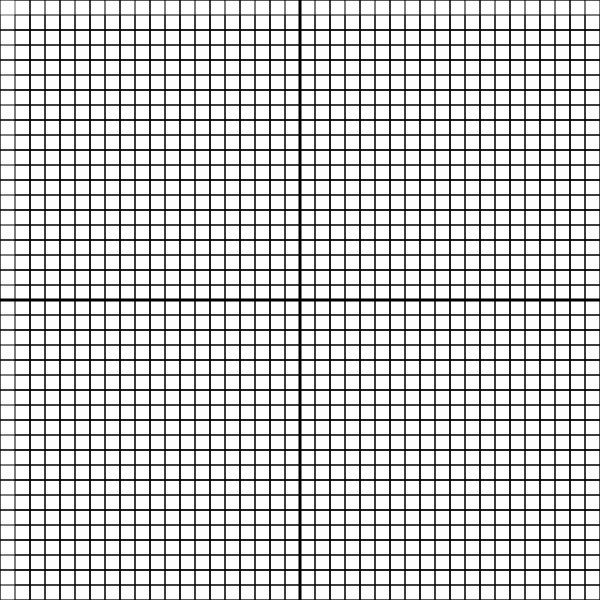
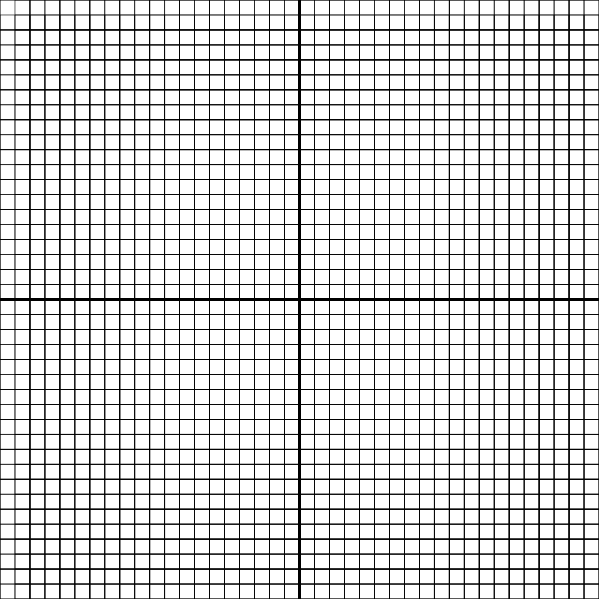
Linted the files after the previous commit and added screen-independent sizing for the window

Changed region(s): [[0.0, 0.0, 1.0, 1.0]]

diff --git a/tests/test_button.py b/tests/test_button.py
@@ -27,6 +27,7 @@ def test_draw(qtbot):
                                                              'or button '
                                                              'not working')
 
+
 def test_clear(qtbot):
     window = Graph(ctx, surface, line_color)
     window.show()
@@ -39,8 +40,10 @@ def test_clear(qtbot):
     qtbot.waitForWindowShown(window)
 
     qtbot.mouseClick(window.buttonBox.buttons()[0], Qt.LeftButton)
+    p1Black = window.graph1.pixelColor(window.p1) == Qt.black
+    p2Black = window.graph1.pixelColor(window.p2) == Qt.black
 
-    if window.graph1.pixelColor(window.p1) == Qt.black and window.graph1.pixelColor(window.p2) == Qt.black:
+    if p1Black and p2Black:
         qtbot.mouseClick(window.buttonBox.buttons()[1], Qt.LeftButton)
 
         assert window.x_coord1.text() == '0', "Reset button is not working"
@@ -48,12 +51,16 @@ def test_clear(qtbot):
         assert window.x_coord2.text() == '0', "Reset button is not working"
         assert window.y_coord2.text() == '0', "Reset button is not working"
     else:
-        assert window.graph1.pixelColor(window.p1) == Qt.black, ('Line not drawn'
-                                                                 'or button '
-                                                                 'not working')
-        assert window.graph1.pixelColor(window.p2) == Qt.black, ('Line not drawn'
-                                                                 'or button '
-                                                                 'not working')
+        assert window.graph1.pixelColor(window.p1) == Qt.black, ('Line not '
+                                                                 'drawn or '
+                                                                 'button not'
+                                                                 'working')
+        assert window.graph1.pixelColor(window.p2) == Qt.black, ('Line not '
+                                                                 'drawn or '
+                                                                 'button not'
+                                                                 'working')
+
+
 def test_save(qtbot):
     window = Graph(ctx, surface, line_color)
     window.show()
@@ -68,4 +75,5 @@ def test_save(qtbot):
     qtbot.mouseClick(window.buttonBox.buttons()[0], Qt.LeftButton)
     window.setSaveFiledir("resources/")
 
-    assert path.exists(path.abspath(filename)) == True, "Save button is not working"
+    assert path.exists(path.abspath(filename)) is True, ('Save button '
+                                                         'is not working')

diff --git a/modules/geometry.py b/modules/geometry.py
@@ -4,12 +4,12 @@ from PySide2.QtCore import QPoint
 class point(object):
     """Class implementation of a point in graph"""
     def __init__(self, x=0, y=0):
-        self.x = x/200
-        self.y = y/200
+        self.x = x / 200
+        self.y = y / 200
 
     def set_coord(self, x, y):
-        self.x = x/200
-        self.y = y/200
+        self.x = x / 200
+        self.y = y / 200
 
 
 class Point(QPoint):
@@ -80,21 +80,21 @@ class Geometry(object):
         """
 
         for i in range(0, pointNum):
-            self.draw_line(ctx, p[i-1], p[i], colour, 0.005)
+            self.draw_line(ctx, p[i - 1], p[i], colour, 0.005)
 
     def draw_grid(self, ctx, colour):
         for i in range(-100, 100, 10):
             for j in range(-100, 100, 10):
                 p1 = point(i, j)
-                p2 = point(i+10, j)
-                p3 = point(i+10, j+10)
-                p4 = point(i, j+10)
+                p2 = point(i + 10, j)
+                p3 = point(i + 10, j + 10)
+                p4 = point(i, j + 10)
                 self.draw_quad(ctx, p1, p2, p3, p4, colour, 0.001)
 
         for i in range(-100, 100, 5):
             for j in range(-100, 100, 5):
                 p1 = point(i, j)
-                p2 = point(i+10, j)
-                p3 = point(i+10, j+10)
-                p4 = point(i, j+10)
+                p2 = point(i + 10, j)
+                p3 = point(i + 10, j + 10)
+                p4 = point(i, j + 10)
                 self.draw_quad(ctx, p1, p2, p3, p4, colour, 0.001)

diff --git a/main.py b/main.py
@@ -6,7 +6,9 @@ from modules.gui import Graph, QtWidgets
 import sys
 
 # Some necessary variables
-WIDTH, HEIGHT = 600, 600  # Width and height of the graph
+app = QtWidgets.QApplication(["Graph Plotter"])  # Name of the application
+rect = app.primaryScreen().availableGeometry()
+WIDTH, HEIGHT = int(rect.width()*(43.92/100)), int(rect.height()*(80.97/100)) # Width and height of the graph
 
 # Color objects for having customizable graph colors
 bg_color = Color("white")
@@ -29,10 +31,10 @@ p4.set_coord(100, -100)
 # pycairo objects for making the graph
 ctx, surface = setup_canvas(bg_color, WIDTH, HEIGHT, 0)
 set_axes(ctx, axes_color)
+surface.write_to_png("resources/graph.png")
 
 # The code for the main application
 if __name__ == "__main__":
-    app = QtWidgets.QApplication(["Graph Plotter"])  # Name of the application
     graphPlotter = Graph(ctx, surface, line_color)  # Make the window
     graphPlotter.show()
     sys.exit(app.exec_())

diff --git a/tests/test_input.py b/tests/test_input.py
@@ -5,7 +5,6 @@ from PySide2.QtCore import Qt
 from time import sleep
 
 
-
 def test_coordBox(qtbot):
     window = Graph(ctx, surface, line_color)
     window.show()
@@ -26,6 +25,7 @@ def test_coordBox(qtbot):
     assert window.x_coord2.text() == '0', str
     assert window.y_coord2.text() == '0', str
 
+
 def test_intInput(qtbot):
     window = Graph(ctx, surface, line_color)
     window.show()
@@ -40,7 +40,7 @@ def test_intInput(qtbot):
 
     qtbot.mouseClick(window.buttonBox.buttons()[0], Qt.LeftButton)
 
-    assert not 'A' in window.x_coord1.text(), str
-    assert not 'A' in window.y_coord1.text(), str
-    assert not 'A' in window.x_coord2.text(), str
-    assert not 'A' in window.y_coord2.text(), str
+    assert 'A' not in window.x_coord1.text(), str
+    assert 'A' not in window.y_coord1.text(), str
+    assert 'A' not in window.x_coord2.text(), str
+    assert 'A' not in window.y_coord2.text(), str

diff --git a/modules/gui/overloads.py b/modules/gui/overloads.py
@@ -3,6 +3,7 @@ from .layout import QtGui, Qt, QtWidgets
 
 filename = ''
 
+
 class NumInput(QtWidgets.QLineEdit):
     """Class which defines the input boxes for the coordinates"""
     def __init__(self):
@@ -37,5 +38,5 @@ def paintEvent(self, e):
         self.save_call = False
         currentDT = datetime.datetime.now()
         currentTime = currentDT.strftime("%H:%M:%S")
-        filename = self.fileDir + "graph-"+currentTime+".png"
+        filename = self.fileDir + "graph-" + currentTime + ".png"
         self.graph1.save(filename, "PNG")

diff --git a/modules/gui/buttonfunc.py b/modules/gui/buttonfunc.py
@@ -36,5 +36,6 @@ def check(self):
     self.x_coord2.setzero()
     self.y_coord2.setzero()
 
-def setSaveFiledir(self,filedir):
+
+def setSaveFiledir(self, filedir):
     self.fileDir = filedir
